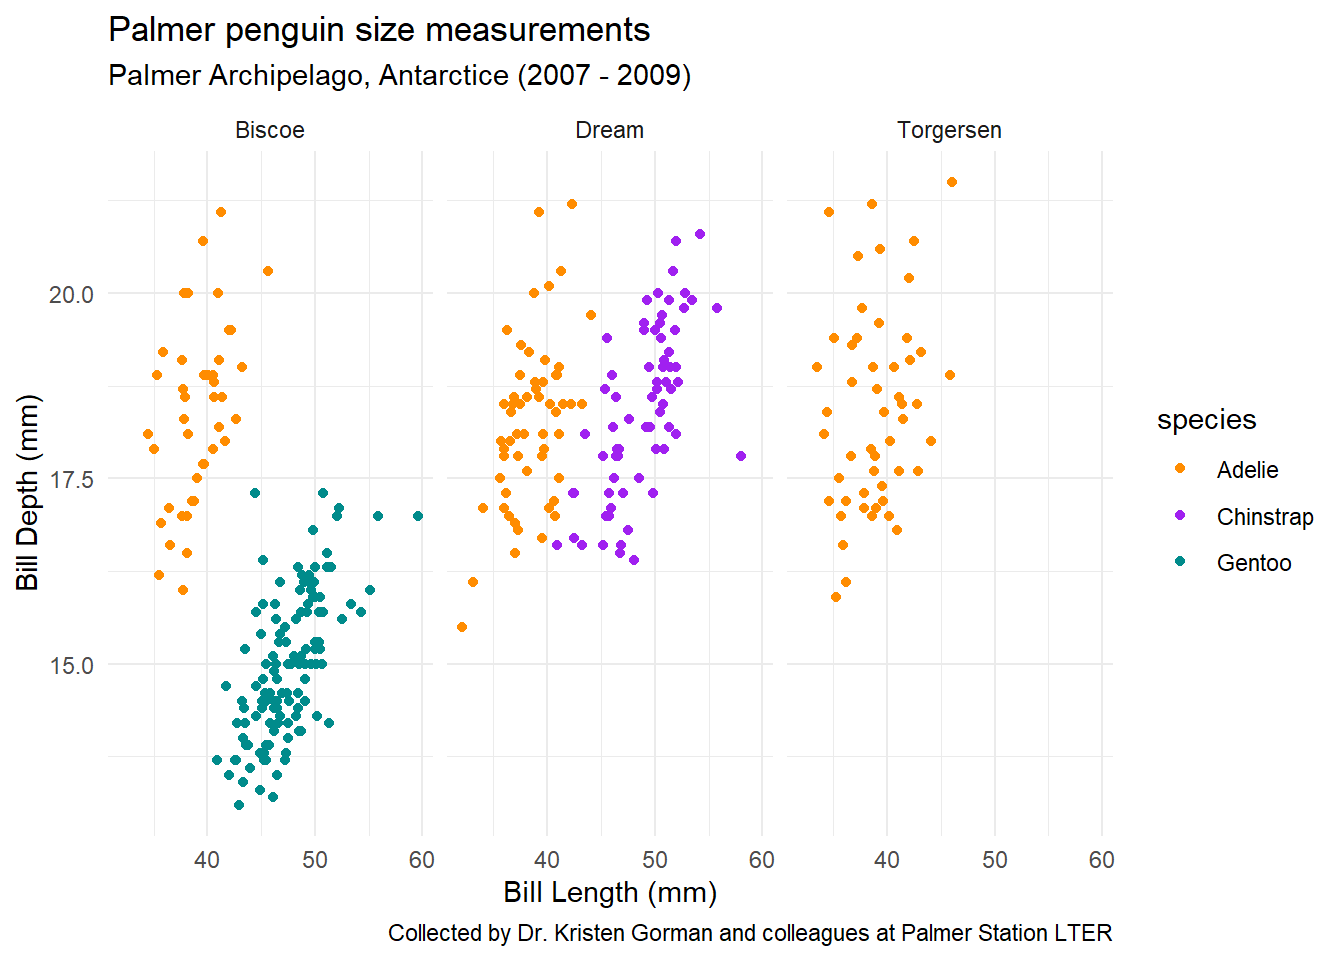
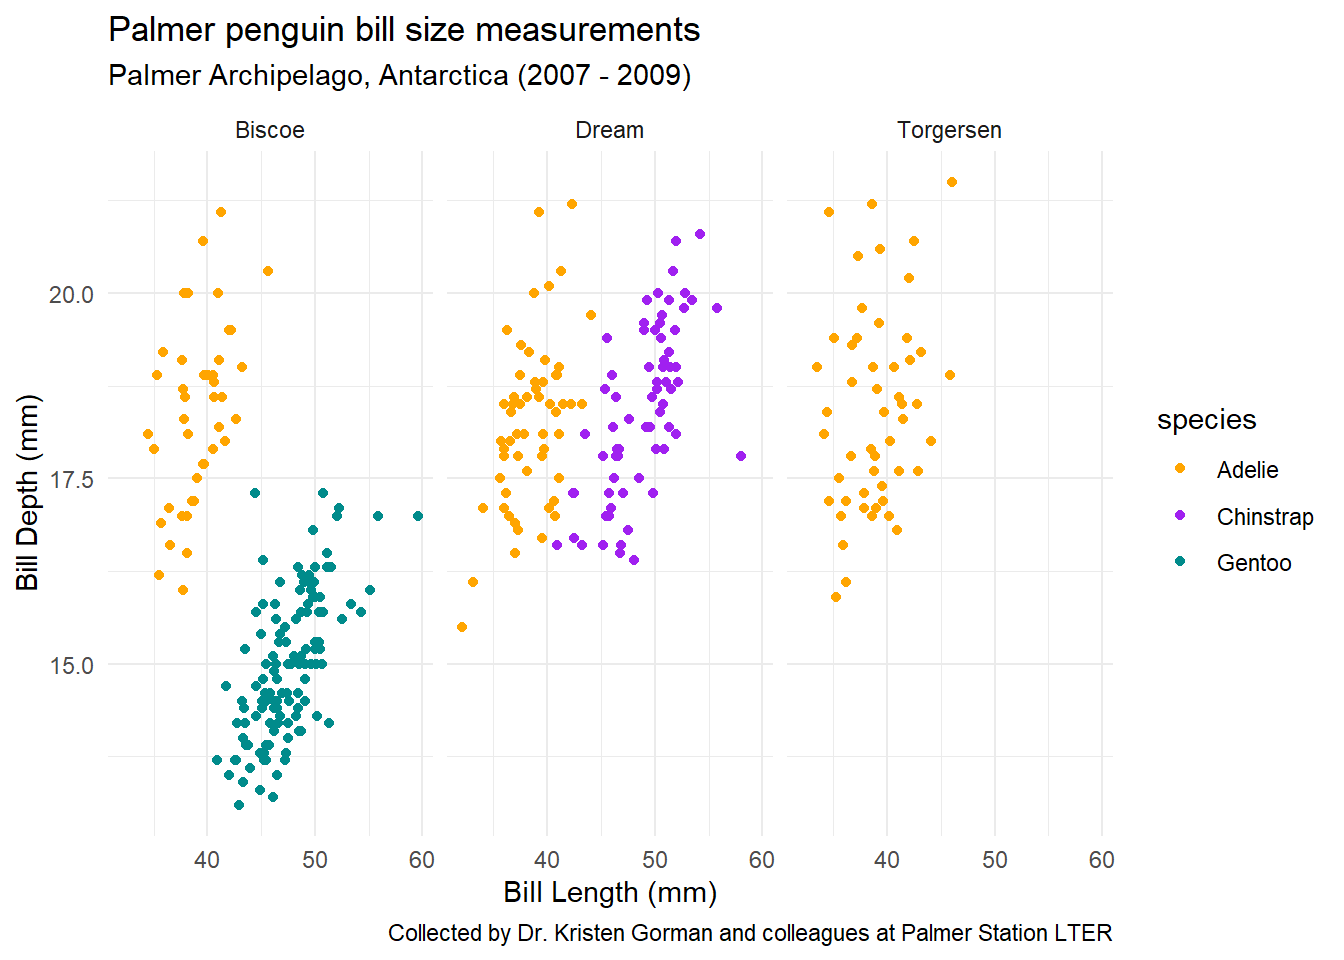
last commit

diff --git a/eds212_day2_activities.html b/eds212_day2_activities.html
@@ -186,11 +186,11 @@ The following objects are masked from 'package:datasets':
 <div class="sourceCode cell-code" id="cb14"><pre class="sourceCode r code-with-copy"><code class="sourceCode r"><span id="cb14-1"><a href="#cb14-1" aria-hidden="true" tabindex="-1"></a><span class="co"># create plot ----</span></span>
 <span id="cb14-2"><a href="#cb14-2" aria-hidden="true" tabindex="-1"></a><span class="fu">ggplot</span>(<span class="at">data =</span> penguins, <span class="fu">aes</span>(<span class="at">x =</span> bill_length_mm, <span class="at">y =</span> bill_depth_mm)) <span class="sc">+</span></span>
 <span id="cb14-3"><a href="#cb14-3" aria-hidden="true" tabindex="-1"></a>  <span class="fu">geom_point</span>(<span class="fu">aes</span>(<span class="at">color =</span> species)) <span class="sc">+</span></span>
-<span id="cb14-4"><a href="#cb14-4" aria-hidden="true" tabindex="-1"></a>  <span class="fu">scale_color_manual</span>(<span class="at">values =</span> <span class="fu">c</span>(<span class="st">"darkorange"</span>,<span class="st">"purple"</span>,<span class="st">"cyan4"</span>)) <span class="sc">+</span></span>
+<span id="cb14-4"><a href="#cb14-4" aria-hidden="true" tabindex="-1"></a>  <span class="fu">scale_color_manual</span>(<span class="at">values =</span> <span class="fu">c</span>(<span class="st">"orange"</span>,<span class="st">"purple"</span>,<span class="st">"cyan4"</span>)) <span class="sc">+</span></span>
 <span id="cb14-5"><a href="#cb14-5" aria-hidden="true" tabindex="-1"></a>  <span class="fu">labs</span>(<span class="at">x =</span> <span class="st">"Bill Length (mm)"</span>,</span>
 <span id="cb14-6"><a href="#cb14-6" aria-hidden="true" tabindex="-1"></a>       <span class="at">y =</span> <span class="st">"Bill Depth (mm)"</span>,</span>
-<span id="cb14-7"><a href="#cb14-7" aria-hidden="true" tabindex="-1"></a>       <span class="at">title =</span> <span class="st">"Palmer penguin size measurements"</span>,</span>
-<span id="cb14-8"><a href="#cb14-8" aria-hidden="true" tabindex="-1"></a>       <span class="at">subtitle =</span> <span class="st">"Palmer Archipelago, Antarctice (2007 - 2009)"</span>,</span>
+<span id="cb14-7"><a href="#cb14-7" aria-hidden="true" tabindex="-1"></a>       <span class="at">title =</span> <span class="st">"Palmer penguin bill size measurements"</span>,</span>
+<span id="cb14-8"><a href="#cb14-8" aria-hidden="true" tabindex="-1"></a>       <span class="at">subtitle =</span> <span class="st">"Palmer Archipelago, Antarctica (2007 - 2009)"</span>,</span>
 <span id="cb14-9"><a href="#cb14-9" aria-hidden="true" tabindex="-1"></a>       <span class="at">caption =</span> <span class="st">"Collected by Dr. Kristen Gorman and colleagues at Palmer Station LTER"</span>) <span class="sc">+</span></span>
 <span id="cb14-10"><a href="#cb14-10" aria-hidden="true" tabindex="-1"></a>  <span class="fu">facet_wrap</span>(<span class="sc">~</span>island) <span class="sc">+</span></span>
 <span id="cb14-11"><a href="#cb14-11" aria-hidden="true" tabindex="-1"></a>  <span class="fu">theme_minimal</span>()</span></code><button title="Copy to Clipboard" class="code-copy-button"><i class="bi"></i></button></pre></div>
@@ -206,9 +206,30 @@ The following objects are masked from 'package:datasets':
 </div>
 </div>
 </div>
-</section>
-<section id="section" class="level1">
-<h1></h1>
+<div class="cell">
+<div class="sourceCode cell-code" id="cb16"><pre class="sourceCode r code-with-copy"><code class="sourceCode r"><span id="cb16-1"><a href="#cb16-1" aria-hidden="true" tabindex="-1"></a><span class="co">#jitter plot of flipper length by species</span></span>
+<span id="cb16-2"><a href="#cb16-2" aria-hidden="true" tabindex="-1"></a><span class="fu">ggplot</span>(<span class="at">data =</span> penguins, <span class="fu">aes</span>(<span class="at">x =</span> species, <span class="at">y =</span> flipper_length_mm)) <span class="sc">+</span> </span>
+<span id="cb16-3"><a href="#cb16-3" aria-hidden="true" tabindex="-1"></a>         <span class="fu">geom_jitter</span>(<span class="fu">aes</span>(<span class="at">color =</span> species)) <span class="sc">+</span> </span>
+<span id="cb16-4"><a href="#cb16-4" aria-hidden="true" tabindex="-1"></a>  <span class="fu">scale_color_manual</span>(<span class="at">values =</span> <span class="fu">c</span>(<span class="st">"orange"</span>, <span class="st">"purple"</span>, <span class="st">"cyan4"</span>)) <span class="sc">+</span> </span>
+<span id="cb16-5"><a href="#cb16-5" aria-hidden="true" tabindex="-1"></a>  <span class="fu">labs</span>(<span class="at">x =</span> <span class="st">"Species"</span>,</span>
+<span id="cb16-6"><a href="#cb16-6" aria-hidden="true" tabindex="-1"></a>       <span class="at">y =</span> <span class="st">"Flipper Length (mm)"</span>,</span>
+<span id="cb16-7"><a href="#cb16-7" aria-hidden="true" tabindex="-1"></a>       <span class="at">title =</span> <span class="st">"Flipper length variation by species "</span>,</span>
+<span id="cb16-8"><a href="#cb16-8" aria-hidden="true" tabindex="-1"></a>       <span class="at">subtitle =</span> <span class="st">"Palmer Archipelago, Antarctica (2007 - 2009)"</span>,</span>
+<span id="cb16-9"><a href="#cb16-9" aria-hidden="true" tabindex="-1"></a>       <span class="at">caption =</span> <span class="st">"Collected by Dr. Kristen Gorman and colleagues at Palmer Station LTER"</span>) <span class="sc">+</span></span>
+<span id="cb16-10"><a href="#cb16-10" aria-hidden="true" tabindex="-1"></a>  <span class="fu">facet_wrap</span>(<span class="sc">~</span>island) <span class="sc">+</span> </span>
+<span id="cb16-11"><a href="#cb16-11" aria-hidden="true" tabindex="-1"></a>    <span class="fu">theme_minimal</span>()</span></code><button title="Copy to Clipboard" class="code-copy-button"><i class="bi"></i></button></pre></div>
+<div class="cell-output cell-output-stderr">
+<pre><code>Warning: Removed 2 rows containing missing values or values outside the scale range
+(`geom_point()`).</code></pre>
+</div>
+<div class="cell-output-display">
+<div>
+<figure class="figure">
+<p><img src="eds212_day2_activities_files/figure-html/unnamed-chunk-6-1.png" class="img-fluid figure-img" width="672"></p>
+</figure>
+</div>
+</div>
+</div>
 </section>
 
 </main>
